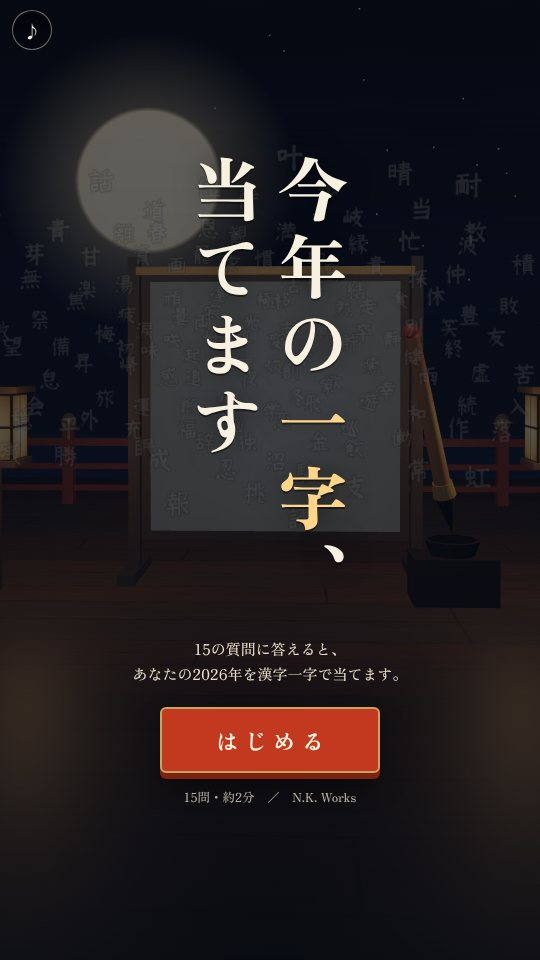
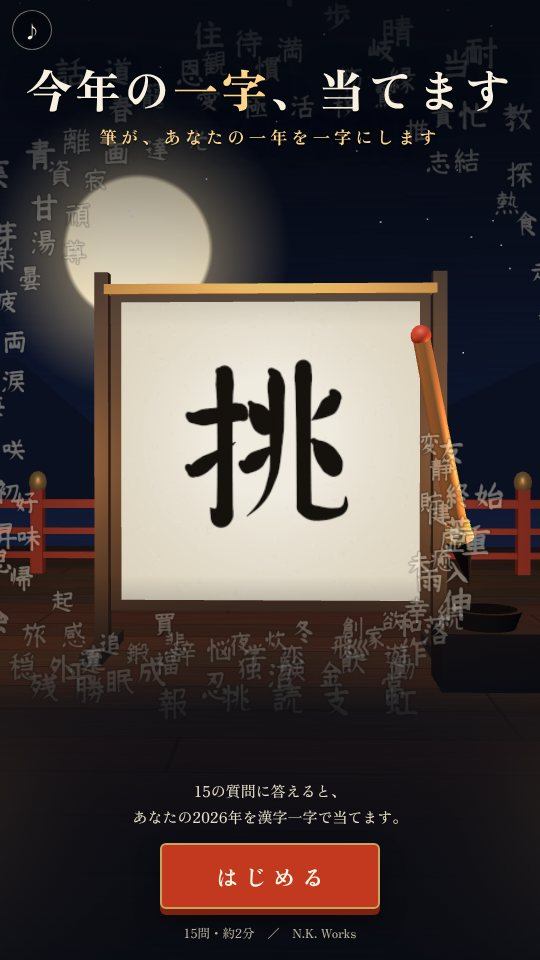
今年の一字、当てます：自分の一字を封じて筆と勝負する形を追加
- 「はじめる」のあと、150字の一覧から自分の一字を選んで封じられる（決めずに始めることもできる）
- 15問のあと封を開けて判定：同じ字なら「的中」、2〜3位なら「おしい」、それ以外は150字中の順位
- 外れた時は、封じた字が選ばれなかった理由（足りなかった答え）を結果に出す
- 的中はカードに朱印と紙吹雪。シェアの文も勝ち負けで変わる
- タイトル画面：開いてすぐ筆が見本の字を書く。シェアのリンクから来た人には友だちの字を書いて見せる
- 説明ページの文と画像を更新

Claude-Session: https://claude.ai/code/session_012oTrt6jp9JbB1CXCuP4J8E

diff --git a/games/kotoshi-no-ichiji/index.html b/games/kotoshi-no-ichiji/index.html
@@ -4,13 +4,13 @@
 <meta charset="utf-8">
 <meta name="viewport" content="width=device-width,initial-scale=1">
 <title>今年の一字、当てます｜遊び方としくみ - N.K. Works</title>
-<meta name="description" content="15の質問に答えると、あなたの2026年を漢字一字で当てる診断ゲームです。答えるたびに150字の候補がしぼられ、最後に大きな筆があなたの一字を書き上げます。質問は4択で、1回は約2分。結果は画像つきでシェアできます。スマホ・パソコンで遊べます。">
+<meta name="description" content="15の質問に答えると、あなたの2026年を漢字一字で当てる診断ゲームです。先に自分の一字を選んで封じておき、最後に大きな筆が書く字と勝負します。質問は4択で、1回は約2分。結果は画像つきでシェアできます。スマホ・パソコンで遊べます。">
 <meta name="google-adsense-account" content="ca-pub-2073267239630350">
 <link rel="canonical" href="https://nkworks-games.com/games/kotoshi-no-ichiji/">
 <meta property="og:type" content="website">
 <meta property="og:site_name" content="N.K. Works">
 <meta property="og:title" content="今年の一字、当てます｜遊び方としくみ - N.K. Works">
-<meta property="og:description" content="15の質問に答えると、あなたの2026年を漢字一字で当てる診断ゲームです。答えるたびに150字の候補がしぼられ、最後に大きな筆があなたの一字を書き上げます。質問は4択で、1回は約2分。結果は画像つきでシェアできます。スマホ・パソコンで遊べます。">
+<meta property="og:description" content="15の質問に答えると、あなたの2026年を漢字一字で当てる診断ゲームです。先に自分の一字を選んで封じておき、最後に大きな筆が書く字と勝負します。質問は4択で、1回は約2分。結果は画像つきでシェアできます。スマホ・パソコンで遊べます。">
 <meta property="og:url" content="https://nkworks-games.com/games/kotoshi-no-ichiji/">
 <meta property="og:image" content="https://nkworks-games.com/games/kotoshi-no-ichiji/thumb.jpg">
 <meta name="twitter:card" content="summary_large_image">
@@ -18,7 +18,7 @@
 <script>
 (function(){ if (/(^|\.)nkworks-games\.com$/.test(location.hostname)) { var s=document.createElement('script'); s.async=true; s.crossOrigin='anonymous'; s.src='https://pagead2.googlesyndication.com/pagead/js/adsbygoogle.js?client=ca-pub-2073267239630350'; document.head.appendChild(s); } })();
 </script>
-<script type="application/ld+json">{"@context": "https://schema.org", "@type": "VideoGame", "name": "今年の一字、当てます", "url": "https://nkworks-games.com/kotoshi-no-ichiji/", "description": "15の質問に答えると、あなたの2026年を漢字一字で当てる診断ゲームです。答えるたびに150字の候補がしぼられ、最後に大きな筆があなたの一字を書き上げます。質問は4択で、1回は約2分。結果は画像つきでシェアできます。スマホ・パソコンで遊べます。", "image": "https://nkworks-games.com/games/kotoshi-no-ichiji/thumb.jpg", "datePublished": "2026-11-22", "gamePlatform": "Web browser", "applicationCategory": "Game", "inLanguage": "ja", "author": {"@type": "Organization", "name": "N.K. Works", "url": "https://nkworks-games.com/"}, "offers": {"@type": "Offer", "price": "0", "priceCurrency": "JPY"}}</script>
+<script type="application/ld+json">{"@context": "https://schema.org", "@type": "VideoGame", "name": "今年の一字、当てます", "url": "https://nkworks-games.com/kotoshi-no-ichiji/", "description": "15の質問に答えると、あなたの2026年を漢字一字で当てる診断ゲームです。先に自分の一字を選んで封じておき、最後に大きな筆が書く字と勝負します。質問は4択で、1回は約2分。結果は画像つきでシェアできます。スマホ・パソコンで遊べます。", "image": "https://nkworks-games.com/games/kotoshi-no-ichiji/thumb.jpg", "datePublished": "2026-11-22", "gamePlatform": "Web browser", "applicationCategory": "Game", "inLanguage": "ja", "author": {"@type": "Organization", "name": "N.K. Works", "url": "https://nkworks-games.com/"}, "offers": {"@type": "Offer", "price": "0", "priceCurrency": "JPY"}}</script>
 </head>
 <body>
 
@@ -29,18 +29,18 @@
 
 <main><div class="wrap">
 <p class="crumb"><a data-google-vignette="false" href="/">トップ</a> › <a data-google-vignette="false" href="/games/">ゲーム</a> › 今年の一字、当てます</p>
-<h1>今年の一字、当てます</h1><p class="lead">15の質問で、あなたの2026年を漢字一字にします。最後は大きな筆が書き上げます。</p>
+<h1>今年の一字、当てます</h1><p class="lead">15の質問で、あなたの2026年を漢字一字にします。先に自分の一字を封じておくと、筆が書く字と勝負できます。</p>
 <div class="hero"><img src="/games/kotoshi-no-ichiji/thumb.jpg" alt="今年の一字、当てますのイメージ画像。夜空を背景に、筆で「挑」「眠」「推」と書かれた3枚の紙がならんでいる" width="600" height="315"></div>
 <div class="play-row"><a class="btn" href="/kotoshi-no-ichiji/">▶ ブラウザで遊ぶ（無料）</a><span class="muted">インストールなし。リンクを開くとすぐ始まります。</span></div>
 <ul class="facts"><li><b>遊べる所</b><span>スマホ（縦・横）・パソコン</span></li><li><b>人数</b><span>1人</span></li><li><b>1回の長さ</b><span>約2分（15問）</span></li><li><b>公開日</b><span>2026年11月22日</span></li><li><b>料金</b><span>無料</span></li></ul>
 <h2>どんなゲーム？</h2>
-<p>今年がどんな一年だったかを、漢字一字で当てる診断ゲームです。質問は15問で、どれも4つの答えから選びます。聞かれるのは、スマホの写真にいちばん多く写っているもの、休みの日の過ごし方、いちばんこたえたことなど、今年実際にあったことだけです。</p><p>夜の舞台には、150の漢字が宙に浮かんでいます。答えるたびに当てはまらない字が消えていき、「のこり◯字」の数字が減っていきます。15問目を答え終わると3字までしぼられ、そこから先は大きな筆の出番です。立ててある紙に、筆が書き順どおりに一字を書き上げます。</p><p>結果の画面では、その字の中心になったあなたの答え、15問から見えた「一年の形」、15問の答えがそれぞれその字をどれだけ指していたか、それから次点だった2字を見られます。最後に「当たり」「おしい」「ちがう」で答え合わせをします。ちがう時は、自分で選んだ一字をカードに書きこめます。</p>
-<div class="shots"><figure><img src="/games/kotoshi-no-ichiji/title.jpg" alt="タイトル画面。夜の舞台に立てた紙の前に、題名と「はじめる」ボタンがある" loading="lazy" width="540" height="960"><figcaption>タイトル画面</figcaption></figure><figure><img src="/games/kotoshi-no-ichiji/play.jpg" alt="質問の画面。上半分に漢字が宙に浮かび、下半分に質問と4つの答えがならんでいる" loading="lazy" width="540" height="960"><figcaption>答えるたびに、候補の字がしぼられる</figcaption></figure><figure><img src="/games/kotoshi-no-ichiji/write.jpg" alt="結果発表の画面。立てた紙に、大きな筆が字を書いている" loading="lazy" width="540" height="960"><figcaption>最後は大きな筆が書き上げる</figcaption></figure><figure><img src="/games/kotoshi-no-ichiji/result.jpg" alt="結果の画面。筆で書かれた一字のカードと、その字が出た理由がならんでいる" loading="lazy" width="540" height="960"><figcaption>結果のカード。画像で保存できる</figcaption></figure></div>
-<h2>遊び方</h2><ol class="steps"><li>「はじめる」を押すと、1問目が出ます。</li><li>4つの答えから、いちばん近いものをタップ（パソコンはクリック）します。</li><li>どれも当てはまらない時は「どれも違う」を押すと、別の質問に入れ替わります。入れ替えは1問につき1回です。</li><li>押しまちがえた時は「ひとつ戻る」で前の質問に戻れます。</li><li>15問答えると、筆が一字を書きます。書いている間に画面をタップすると早送りできます。</li><li>結果を見たら答え合わせをして、Xでシェアしたり、カードを画像で保存したりできます。</li></ol>
+<p>今年がどんな一年だったかを、漢字一字で当てる診断ゲームです。質問は15問で、どれも4つの答えから選びます。聞かれるのは、スマホの写真にいちばん多く写っているもの、休みの日の過ごし方、いちばんこたえたことなど、今年実際にあったことだけです。</p><p>質問の前に、150字の一覧から「今年の自分はこれ」と思う一字を選んで封じておけます。15問のあとに筆が書いた字と見くらべて、同じなら「的中」、次点の2字に入っていれば「おしい」です。どちらでもない時は、150字の中で何位だったかが出ます。決めずに始めることもできます。</p><p>夜の舞台には、150の漢字が宙に浮かんでいます。答えるたびに当てはまらない字が消えていき、「のこり◯字」の数字が減っていきます。15問目を答え終わると3字までしぼられ、そこから先は大きな筆の出番です。立ててある紙に、筆が書き順どおりに一字を書き上げます。</p><p>結果の画面では、その字の中心になったあなたの答え、15問から見えた「一年の形」、15問の答えがそれぞれその字をどれだけ指していたか、それから次点だった2字を見られます。字を封じていた時は、勝負の結果がいちばん上に出ます。外れた時は、封じた字がなぜ選ばれなかったのかも書いてあります。封じなかった時は、最後に「当たり」「おしい」「ちがう」で答え合わせをします。</p>
+<div class="shots"><figure><img src="/games/kotoshi-no-ichiji/title.jpg" alt="タイトル画面。夜の舞台に立てた紙に、大きな筆が見本の字を書いている" loading="lazy" width="540" height="960"><figcaption>タイトル画面。筆が見本の字を書いている</figcaption></figure><figure><img src="/games/kotoshi-no-ichiji/pick.jpg" alt="一字を封じる画面。150の漢字がならび、選んだ字が赤くなっている" loading="lazy" width="540" height="960"><figcaption>先に、自分の一字を封じる</figcaption></figure><figure><img src="/games/kotoshi-no-ichiji/play.jpg" alt="質問の画面。上半分に漢字が宙に浮かび、下半分に質問と4つの答えがならんでいる" loading="lazy" width="540" height="960"><figcaption>答えるたびに、候補の字がしぼられる</figcaption></figure><figure><img src="/games/kotoshi-no-ichiji/write.jpg" alt="結果発表の画面。立てた紙に、大きな筆が字を書いている" loading="lazy" width="540" height="960"><figcaption>最後は大きな筆が書き上げる</figcaption></figure><figure><img src="/games/kotoshi-no-ichiji/duel.jpg" alt="勝負の画面。筆が書いた字の下に、封じた一字の札と「的中」の文字が出ている" loading="lazy" width="540" height="960"><figcaption>封を開けて勝負。同じ字なら「的中」</figcaption></figure><figure><img src="/games/kotoshi-no-ichiji/result.jpg" alt="結果の画面。筆で書かれた一字のカードに「的中」の印が押され、下に勝負の結果がならんでいる" loading="lazy" width="540" height="960"><figcaption>結果のカード。画像で保存できる</figcaption></figure></div>
+<h2>遊び方</h2><ol class="steps"><li>「はじめる」を押すと、150字の一覧が出ます。今年の自分を表すと思う一字を選んで「封じて始める」を押します。決めたくない時は「決めずに始める」で進めます。</li><li>4つの答えから、いちばん近いものをタップ（パソコンはクリック）します。</li><li>どれも当てはまらない時は「どれも違う」を押すと、別の質問に入れ替わります。入れ替えは1問につき1回です。</li><li>押しまちがえた時は「ひとつ戻る」で前の質問に戻れます。</li><li>15問答えると、筆が一字を書きます。字を封じていた時は、そのあと封が開いて勝負の結果が出ます。途中で画面をタップすると早送りできます。</li><li>結果を見たら、Xでシェアしたり、カードを画像で保存したりできます。字を封じなかった時は、ここで答え合わせもします。</li></ol>
 <h2>しくみ</h2>
-<p>答えにはそれぞれ、「引っ越した」「よく寝た」「挑戦した」のような、その年の特徴がひもづいています。漢字のほうも、2つか3つの特徴の組み合わせで決めてあります。たとえば「忙しい」と「楽しい」がそろうと「充」、「挑戦」と「うまくいかなかった」がそろうと「敗」です。</p><p>候補になるのは、その字の中心になる答えを、あなたがじかに選んでいる字だけです。たとえば「読」は、「いちばん長く一緒にいた相手」で「自分ひとり」、「いちばん夢中になったもの」で「作品」を選んだ人にしか出ません。こういう字が、1人につき平均18字ほど残ります。</p><p>その中から1字を選ぶ時に、15問の答えをぜんぶ使います。特徴どうしには近い・遠いがあって、たとえば「忙しい」「疲れた」「任された」は近い仲間です。こういう答えが重なると、忙しさに近い字がまとめて少しずつ上がります。反対に「家でゆっくり」は、その字を少し下げます。1問だけが強く効きすぎないようにもしてあるので、たくさんの答えが少しずつ指している字ほど選ばれやすくなっています。</p><p>くらべる相手は、ふつうの人です。その字が、ふつうの人とくらべてあなたにどれだけ強く当てはまるかを見て、いちばん大きい字を出します。点の合計だけで決めると、たくさんの質問に関係する字ばかりが出てしまうからです。</p><p>出てくる字の割合を、こちらで調整することはしていません。まじめな字も少し笑える字も、あなたの答えだけで決まります。結果に出る「約◯人に1人」は、いろいろな答え方の人を30万人ぶん計算で試した、おおよその数です。</p><p>書き順のデータは <a href="https://kanjivg.tagaini.net/" target="_blank" rel="noopener">KanjiVG</a>（© Ulrich Apel、CC BY-SA 3.0）を使っています。筆の太さやかすれは、そのデータをもとにゲームの中で作っています。なお、日本漢字能力検定協会が毎年発表している「今年の漢字®」とは関係のない、個人が作ったあそびの診断です。</p>
-<h2>楽しみ方のヒント</h2><ul><li>4つとも合わない質問は、無理に選ばず「どれも違う」で入れ替えられます。</li><li>結果がしっくりこない時は、次点の2字も見てみてください。そちらのほうが近いこともあります。</li><li>家族や友だちと出た字をくらべるのがおすすめです。入れ替えをしなければ質問は同じ15問なので、どこで分かれたかを話せます。</li><li>シェアされたリンクから開くと、タイトル画面に「友だちの一字」が出ます。</li></ul>
-<h2>作っていて変えたところ</h2><p>いちばん時間がかかったのは、字の選び方です。最初は答えの点をそのまま足して、合計がいちばん高い字を出していました。ところが、たくさんの人のぶんを計算で試すと同じ字ばかりが出て、候補の4分の1ほどはどう答えても1位になれませんでした。そこで、ふつうの人とくらべてどれだけ強く当てはまるかで選ぶ形に作り直しています。</p><p>漢字は、はじめ215字を用意していました。似た意味の字がならぶと結果のちがいがわかりにくかったので、150字までしぼりました。「太」は体型をからかう形になるのでやめて、「家でよく食べた一年」は「炊」にしています。</p><p>公開した日に自分で遊んでみたら、ほんの一部の答えだけで字が決まっている感じがしました。計算で試すと、出た字に合っていた答えは15問のうち平均2.6問しかありませんでした。そこで、近い特徴どうしで点を分け合う形に変えて、今は平均9問ほどが出た字を指しています。結果の画面に「一年の形」と15問それぞれの効き方を出すようにしたのも、この時です。</p><p>ところがこの直しで、答えていないことを表す字が出るようになってしまいました。作品に夢中と答えていないのに「読」が出る、というふうにです。近い特徴から点を集めすぎたのが原因でした。今は、字の中心になる答えをじかに選んでいる字だけを候補にして、結果の画面にもその答えを出しています。</p><p>発表の場面も直しました。作ったばかりの時は、最後に残った3字のうち1位の字だけが大きく金色に光っていて、筆が書く前に答えがわかってしまいました。今は3字とも同じ大きさ、同じ明るさです。</p>
+<p>答えにはそれぞれ、「引っ越した」「よく寝た」「挑戦した」のような、その年の特徴がひもづいています。漢字のほうも、2つか3つの特徴の組み合わせで決めてあります。たとえば「忙しい」と「楽しい」がそろうと「充」、「挑戦」と「うまくいかなかった」がそろうと「敗」です。</p><p>候補になるのは、その字の中心になる答えを、あなたがじかに選んでいる字だけです。たとえば「読」は、「いちばん長く一緒にいた相手」で「自分ひとり」、「いちばん夢中になったもの」で「作品」を選んだ人にしか出ません。こういう字が、1人につき平均18字ほど残ります。</p><p>その中から1字を選ぶ時に、15問の答えをぜんぶ使います。特徴どうしには近い・遠いがあって、たとえば「忙しい」「疲れた」「任された」は近い仲間です。こういう答えが重なると、忙しさに近い字がまとめて少しずつ上がります。反対に「家でゆっくり」は、その字を少し下げます。1問だけが強く効きすぎないようにもしてあるので、たくさんの答えが少しずつ指している字ほど選ばれやすくなっています。</p><p>くらべる相手は、ふつうの人です。その字が、ふつうの人とくらべてあなたにどれだけ強く当てはまるかを見て、いちばん大きい字を出します。点の合計だけで決めると、たくさんの質問に関係する字ばかりが出てしまうからです。</p><p>出てくる字の割合を、こちらで調整することはしていません。まじめな字も少し笑える字も、あなたの答えだけで決まります。結果に出る「約◯人に1人」は、いろいろな答え方の人を30万人ぶん計算で試した、おおよその数です。</p><p>封じた字との勝負は、同じ計算の順位で決めています。150字を当てはまる順にならべて、封じた字が1位なら「的中」、2位か3位なら「おしい」、4位より下ならその順位を出します。どの字を封じても、質問や計算は変わりません。</p><p>書き順のデータは <a href="https://kanjivg.tagaini.net/" target="_blank" rel="noopener">KanjiVG</a>（© Ulrich Apel、CC BY-SA 3.0）を使っています。筆の太さやかすれは、そのデータをもとにゲームの中で作っています。なお、日本漢字能力検定協会が毎年発表している「今年の漢字®」とは関係のない、個人が作ったあそびの診断です。</p>
+<h2>楽しみ方のヒント</h2><ul><li>4つとも合わない質問は、無理に選ばず「どれも違う」で入れ替えられます。</li><li>結果がしっくりこない時は、次点の2字も見てみてください。そちらのほうが近いこともあります。</li><li>家族や友だちと出た字をくらべるのがおすすめです。入れ替えをしなければ質問は同じ15問なので、どこで分かれたかを話せます。</li><li>外れた時は、封じた字の順位と、足りなかった答えが出ます。その答えを選ぶとどう変わるか、もう一度遊んで試せます。</li><li>一覧の150字が画面に入りきらない時は、下にスクロールすると残りの字が出ます。</li><li>シェアされたリンクから開くと、タイトル画面で筆がまず友だちの一字を書いて見せます。</li></ul>
+<h2>作っていて変えたところ</h2><p>いちばん時間がかかったのは、字の選び方です。最初は答えの点をそのまま足して、合計がいちばん高い字を出していました。ところが、たくさんの人のぶんを計算で試すと同じ字ばかりが出て、候補の4分の1ほどはどう答えても1位になれませんでした。そこで、ふつうの人とくらべてどれだけ強く当てはまるかで選ぶ形に作り直しています。</p><p>漢字は、はじめ215字を用意していました。似た意味の字がならぶと結果のちがいがわかりにくかったので、150字までしぼりました。「太」は体型をからかう形になるのでやめて、「家でよく食べた一年」は「炊」にしています。</p><p>公開した日に自分で遊んでみたら、ほんの一部の答えだけで字が決まっている感じがしました。計算で試すと、出た字に合っていた答えは15問のうち平均2.6問しかありませんでした。そこで、近い特徴どうしで点を分け合う形に変えて、今は平均9問ほどが出た字を指しています。結果の画面に「一年の形」と15問それぞれの効き方を出すようにしたのも、この時です。</p><p>ところがこの直しで、答えていないことを表す字が出るようになってしまいました。作品に夢中と答えていないのに「読」が出る、というふうにです。近い特徴から点を集めすぎたのが原因でした。今は、字の中心になる答えをじかに選んでいる字だけを候補にして、結果の画面にもその答えを出しています。</p><p>発表の場面も直しました。作ったばかりの時は、最後に残った3字のうち1位の字だけが大きく金色に光っていて、筆が書く前に答えがわかってしまいました。今は3字とも同じ大きさ、同じ明るさです。</p><p>公開して3日後に、答え合わせの形を変えました。前は結果を見たあとで「当たり」「ちがう」を押すだけでした。筆の字を見てから決められるので、当たったのかどうかがあいまいになります。そこで、質問の前に自分の一字を封じておく形を足しました。先に決めてあるので、同じ字が出れば言いのがれなしの的中です。</p><p>タイトル画面も変えています。前は題名とボタンだけで、筆が字を書くところは15問答えるまで見られませんでした。今は開いてすぐ、筆が見本の字を書きはじめます。</p>
 <div class="play-row"><a class="btn" href="/kotoshi-no-ichiji/">▶ 今年の一字、当てますを遊ぶ</a></div>
 <h2>にている遊びのゲーム</h2><ul class="grid"><li><a data-google-vignette="false" class="card" href="/games/unmei-no-machi/"><div class="th"><img src="/games/unmei-no-machi/thumb.jpg" alt="" loading="lazy" width="600" height="315"></div><div class="tx"><b>運命の町、当てます</b><span>20の質問で、あなたの運命の町を当てます。</span><em>2026年11月16日 公開</em></div></a></li><li><a data-google-vignette="false" class="card" href="/games/shusshin-ken/"><div class="th"><img src="/games/shusshin-ken/thumb.jpg" alt="" loading="lazy" width="600" height="315"></div><div class="tx"><b>出身地、当てます</b><span>2択の質問で、出身地を当てます。</span><em>2026年10月27日 公開</em></div></a></li><li><a data-google-vignette="false" class="card" href="/games/kokumindo/"><div class="th"><img src="/games/kokumindo/thumb.jpg" alt="" loading="lazy" width="600" height="315"></div><div class="tx"><b>国民度チェック</b><span>日の丸を一筆で描いて、国民度を測る</span><em>2026年10月29日 公開</em></div></a></li></ul>
 <div class="ad-box"><p class="lbl">広告</p>
